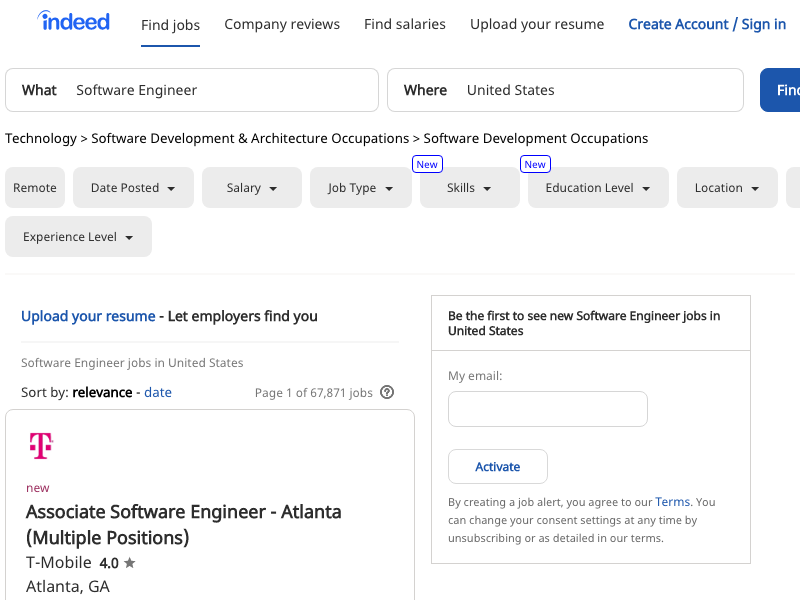
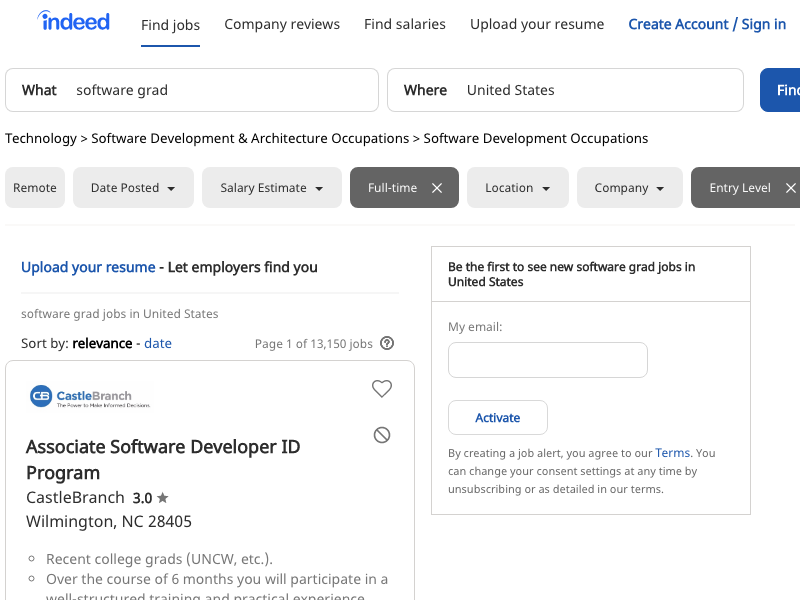
add 6 url

diff --git a/crawler/test.js b/crawler/test.js
@@ -14,8 +14,29 @@ import puppeteer from 'puppeteer'
         // pipe: true,
         // slowMo: 10,
     };
-    const url_l = "https://www.linkedin.com/jobs";
-    const url_i = 'https://www.indeed.com/';
+    /**
+     * 
+       
+     Software grad
+        https://www.indeed.com/jobs?q=software+grad&l=United+States&jt=fulltime&explvl=entry_level
+
+        Software college
+        https://www.indeed.com/jobs?q=software+college&l=United+States&jt=fulltime&explvl=entry_level
+
+        Software university
+        https://www.indeed.com/jobs?q=software+university&l=United+States&jt=fulltime&explvl=entry_level
+
+        Software graduate
+        https://www.indeed.com/jobs?q=software+graduate&l=United+States&jt=fulltime&explvl=entry_level
+
+        entry software
+        https://www.indeed.com/jobs?q=entry+software&l=United+States&jt=fulltime&explvl=entry_level
+
+        junior developer
+        https://www.indeed.com/jobs?q=junior+developer&l=United+States&jt=fulltime&explvl=entry_level
+     */
+    const url = "https://www.indeed.com/jobs?q=software+grad&l=United+States&jt=fulltime&explvl=entry_level";
+    const url_i = 'https://www.indeed.com/jobs?q=';
     const query = "Software Engineer";
     const location = "United States";
 
@@ -24,37 +45,54 @@ import puppeteer from 'puppeteer'
     console.info("0")
 
     const page = await browser.newPage();
-    await page.goto(url_i);
+    await page.goto(url);
     console.info("1")
-    await Promise.all([
-        page.waitForSelector("form#whatWhereFormId", {timeout: 10000}),
-        page.waitForSelector(`div[class="icl-WhatWhere-buttonWrapper"] button`, {timeout: 10000})
-    ])
+    // await Promise.all([
+    //     page.waitForSelector("form#whatWhereFormId", {timeout: 10000}),
+    //     page.waitForSelector(`div[class="icl-WhatWhere-buttonWrapper"] button`, {timeout: 10000})
+    // ])
 
-    // const whereValue = document.querySelector(`form#whatWhereFormId input#text-input-where`).value;
-    await page.evaluate(() => document.querySelector(`form#whatWhereFormId input#text-input-what`).value = "");
-    // await page.evaluate(() => document.querySelector(`form#whatWhereFormId input#text-input-where`).value = "");
+    // // const whereValue = document.querySelector(`form#whatWhereFormId input#text-input-where`).value;
+    // await page.evaluate(() => document.querySelector(`form#whatWhereFormId input#text-input-what`).value = "");
+    // // await page.evaluate(() => document.querySelector(`form#whatWhereFormId input#text-input-where`).value = "");
     
-    await page.click(`form#whatWhereFormId input#text-input-where`, {clickCount : 3});
-    // await page.keyboard.down('Shift');
-    // for (let i = 0; i < whereValue.length; i++)
-    // await page.keyboard.press('ArrowLeft');
-    // await page.keyboard.up('Shift');
-    await page.keyboard.press('Backspace');
+    // await page.click(`form#whatWhereFormId input#text-input-where`, {clickCount : 3});
+    // // await page.keyboard.down('Shift');
+    // // for (let i = 0; i < whereValue.length; i++)
+    // // await page.keyboard.press('ArrowLeft');
+    // // await page.keyboard.up('Shift');
+    // await page.keyboard.press('Backspace');
     
-    console.info("2")
-    await page.type(`form#whatWhereFormId input#text-input-what`, query);
-    await page.type(`form#whatWhereFormId input#text-input-where`, location);
-    console.info("3")
-    await page.focus(`div[class="icl-WhatWhere-buttonWrapper"] button`)
-    await page.keyboard.press("Enter")
-    await page.waitForNavigation()
+    // console.info("2")
+    // await page.type(`form#whatWhereFormId input#text-input-what`, query);
+    // await page.type(`form#whatWhereFormId input#text-input-where`, location);
+    // console.info("3")
+    // await page.focus(`div[class="icl-WhatWhere-buttonWrapper"] button`)
+    // await page.keyboard.press("Enter")
+    // await page.waitForNavigation()
     // await Promise.all([
         
-    console.info("4")
+    // console.info("4")
     // ]);
+
+    /**
+     * 
+     * document.querySelectorAll('h2.title')[0].innerText
+
+    document.querySelectorAll('span.company')[0].innerText
+
+    document.querySelectorAll('div.location')[0].innerText
+
+    document.querySelectorAll('span.date')[0].innerText 
+
+    document.querySelectorAll('a.jobtitle')[0].href
+
+    document.querySelector(`a[aria-label='Next']`).href
+     */ 
+
+
 
     await page.screenshot({path: 'example.png'});
 
     await browser.close();
-  })();
+  })(); 
